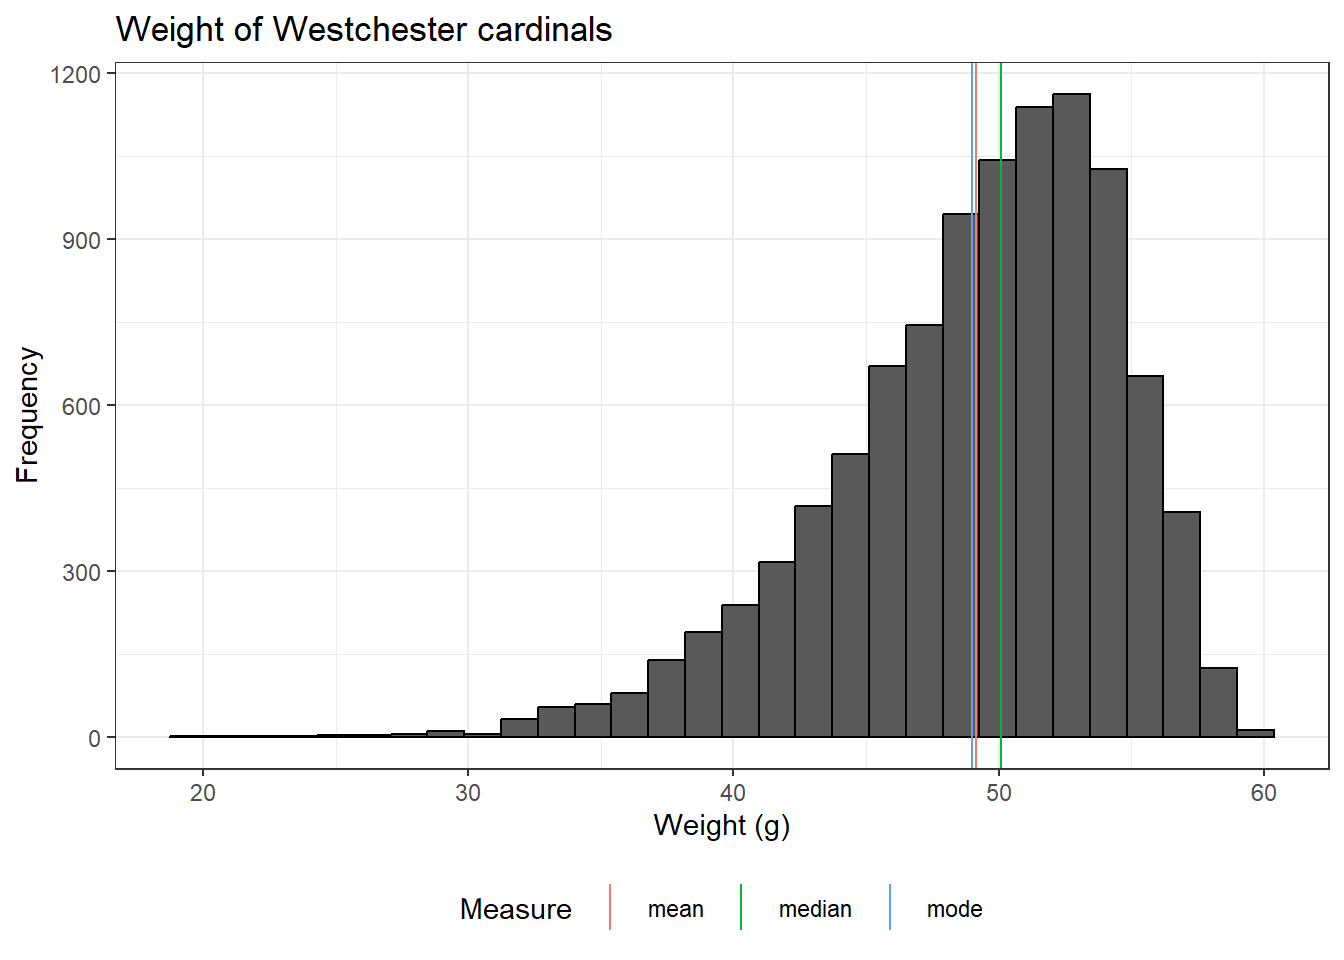
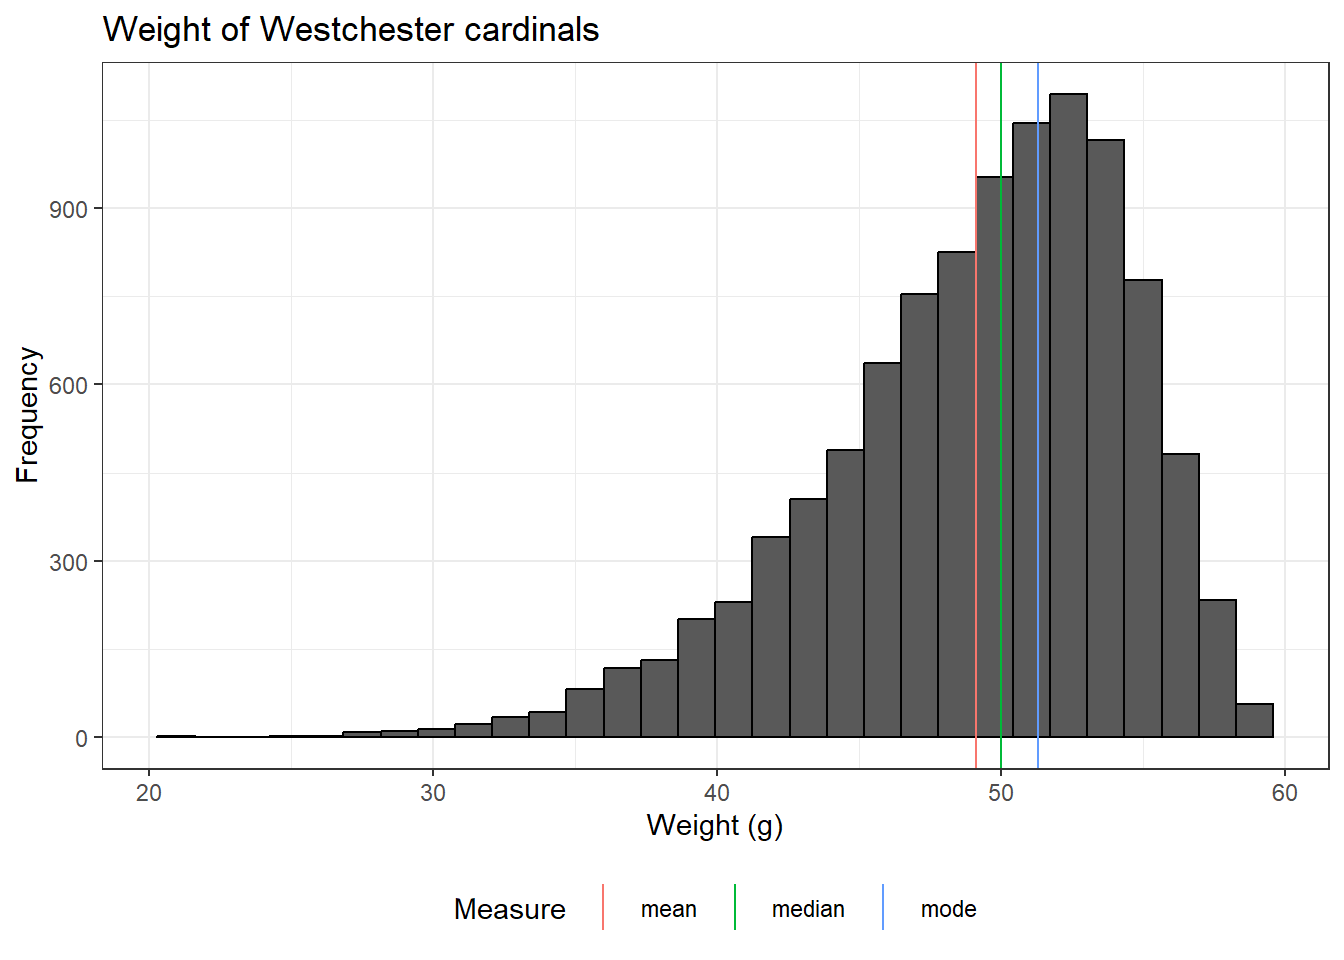
Built site for gh-pages

diff --git a/content/chapters/summarizing_data.html b/content/chapters/summarizing_data.html
@@ -1604,7 +1604,7 @@ Attaching package: 'ggpubr'</code></pre>
 <summary>
 Why is the mode not always on the highest bar?
 </summary>
-<p>Note the mode is heavily/totally impacted by data precision and thus can lead to unusual matches with histograms. In our above example, cardinals were measured to 10<sup>-3</sup> grams. However, the data was binned to levels of 10<sup>-2</sup> grams. Due to this mismatch, the most common measurement of the <em>raw</em> data was 49.012, which occurred 6 times. However, more data points still fell in another bin!</p>
+<p>Note the mode is heavily/totally impacted by data precision and thus can lead to unusual matches with histograms. In our above example, cardinals were measured to 10<sup>-3</sup> grams. However, the data was binned to levels of 10<sup>-2</sup> grams. Due to this mismatch, the most common measurement of the <em>raw</em> data was 51.322, which occurred 5 times. However, more data points still fell in another bin!</p>
 </details>
 <p>A special case where central tendency may not be the best way to describe a distribution is known as <em>bimodal</em> data. In this case, the distribution shows two, not one, clear peak. Remember the woodpecker <a href="#fig-woodpeckers">Figure&nbsp;12</a> data?</p>
 <div class="cell">
@@ -1770,7 +1770,7 @@ CV = \frac{s}{Y} * 100\%
 <div class="sourceCode cell-code" id="cb92"><pre class="sourceCode r code-with-copy"><code class="sourceCode r"><span id="cb92-1"><a href="#cb92-1" aria-hidden="true" tabindex="-1"></a><span class="fu">summary</span>(cardinals)</span></code><button title="Copy to Clipboard" class="code-copy-button"><i class="bi"></i></button></pre></div>
 <div class="cell-output cell-output-stdout">
 <pre><code>   Min. 1st Qu.  Median    Mean 3rd Qu.    Max. 
-  19.28   46.00   50.09   49.14   53.12   59.53 </code></pre>
+  21.56   46.01   50.03   49.13   53.12   59.54 </code></pre>
 </div>
 </div>
 <p>Note that if we shifted the bottom 10% of the values even <em>further</em> left (increasing the skew), the median stays the same, as does the IQR.</p>
@@ -1790,7 +1790,7 @@ CV = \frac{s}{Y} * 100\%
 <div class="sourceCode cell-code" id="cb96"><pre class="sourceCode r code-with-copy"><code class="sourceCode r"><span id="cb96-1"><a href="#cb96-1" aria-hidden="true" tabindex="-1"></a><span class="fu">summary</span>(cardinals_new)</span></code><button title="Copy to Clipboard" class="code-copy-button"><i class="bi"></i></button></pre></div>
 <div class="cell-output cell-output-stdout">
 <pre><code>   Min. 1st Qu.  Median    Mean 3rd Qu.    Max. 
-  18.88   46.00   50.09   49.10   53.12   59.53 </code></pre>
+  21.16   46.01   50.03   49.09   53.12   59.54 </code></pre>
 </div>
 <div class="cell-output-display">
 <div id="fig-cardinals_ggplot2_shifted" class="quarto-figure quarto-figure-center anchored">

diff --git a/content/chapters/Acquiring_data.html b/content/chapters/Acquiring_data.html
@@ -420,12 +420,12 @@ div.csl-indent {
 <div class="cell">
 <div class="sourceCode cell-code" id="cb1"><pre class="sourceCode r code-with-copy"><code class="sourceCode r"><span id="cb1-1"><a href="#cb1-1" aria-hidden="true" tabindex="-1"></a>lengths <span class="ot">&lt;-</span> <span class="fu">rnorm</span>(<span class="at">n=</span><span class="dv">1000</span>, <span class="at">mean =</span> <span class="dv">10</span>, <span class="at">sd=</span><span class="dv">1</span>)</span></code><button title="Copy to Clipboard" class="code-copy-button"><i class="bi"></i></button></pre></div>
 </div>
-<p>The average length of fish in this population is 9.98 cm. We can then simulate a sample from this population. In fact, let’s simulate 2 and compare the means of each.</p>
+<p>The average length of fish in this population is 10.01 cm. We can then simulate a sample from this population. In fact, let’s simulate 2 and compare the means of each.</p>
 <div class="cell">
 <div class="sourceCode cell-code" id="cb2"><pre class="sourceCode r code-with-copy"><code class="sourceCode r"><span id="cb2-1"><a href="#cb2-1" aria-hidden="true" tabindex="-1"></a>sample_1 <span class="ot">&lt;-</span> <span class="fu">sample</span>(lengths,<span class="dv">50</span>)</span>
 <span id="cb2-2"><a href="#cb2-2" aria-hidden="true" tabindex="-1"></a>sample_2 <span class="ot">&lt;-</span><span class="fu">sample</span>(lengths, <span class="dv">50</span>)</span></code><button title="Copy to Clipboard" class="code-copy-button"><i class="bi"></i></button></pre></div>
 </div>
-<p>The mean length for fish in sample 1 is 9.92 cm, while that in sample 2 is 10 cm (Note: if you view this on the webpage you will see a number, but in the actual qmd file you see R code here - this is an example of merging code and text!). These are both close to the true value, but they are also both slightly different - this is sampling error!</p>
+<p>The mean length for fish in sample 1 is 9.98 cm, while that in sample 2 is 10 cm (Note: if you view this on the webpage you will see a number, but in the actual qmd file you see R code here - this is an example of merging code and text!). These are both close to the true value, but they are also both slightly different - this is sampling error!</p>
 <p>Sampling error always exists, and a major part of statistics is to quantify it. One thing that reduces sampling error is to have large samples! Remember, if we measure every member of the population we don’t even need statistics, so the closer we get to that (implying larger samples) the better!</p>
 </section>
 <section id="next-steps" class="level2">

diff --git a/content/chapters/Relationships_among_numerical_variables.html b/content/chapters/Relationships_among_numerical_variables.html
@@ -639,17 +639,17 @@ alternative hypothesis: two.sided</code></pre>
 <div class="cell-output cell-output-stdout">
 <pre><code>
 Number of bootstrap replications R = 999 
-             original   bootBias   bootSE bootMed
-(Intercept)   -7.1014 -0.0196971 0.419240 -7.1352
-Sepal.Length   1.8584  0.0037078 0.068155  1.8627</code></pre>
+             original    bootBias   bootSE bootMed
+(Intercept)   -7.1014  0.00219414 0.441014 -7.0946
+Sepal.Length   1.8584 -0.00025953 0.071296  1.8610</code></pre>
 </div>
 <div class="sourceCode cell-code" id="cb41"><pre class="sourceCode r code-with-copy"><code class="sourceCode r"><span id="cb41-1"><a href="#cb41-1" aria-hidden="true" tabindex="-1"></a><span class="fu">Confint</span>(bootstrap_iris)</span></code><button title="Copy to Clipboard" class="code-copy-button"><i class="bi"></i></button></pre></div>
 <div class="cell-output cell-output-stdout">
 <pre><code>Bootstrap bca confidence intervals
 
               Estimate     2.5 %    97.5 %
-(Intercept)  -7.101443 -7.808106 -6.148043
-Sepal.Length  1.858433  1.715334  1.976782</code></pre>
+(Intercept)  -7.101443 -7.930790 -6.222583
+Sepal.Length  1.858433  1.715907  1.986343</code></pre>
 </div>
 </div>
 </section>

diff --git a/content/chapters/Probability.html b/content/chapters/Probability.html
@@ -614,7 +614,7 @@ P[roll=blue] + P[roll=6] - P[roll=6 \ and \ blue]= \frac{1}{2} + \frac{1}{6} -\f
 <p><img src="Probability_files/figure-html/unnamed-chunk-5-1.png" class="img-fluid" width="672"></p>
 </div>
 </div>
-<p>Notice here we find the probability of rolling a sum of 5 is 0.11105 which is very close to <span class="math inline">\(\frac{4}{36}\)</span>.</p>
+<p>Notice here we find the probability of rolling a sum of 5 is 0.11152 which is very close to <span class="math inline">\(\frac{4}{36}\)</span>.</p>
 <p>To find the probability using math, we have to note that the dice rolls are independent. For example, even though we only want a <strong>4</strong> on the second dice if we roll a <strong>1</strong> on the first dice, the roll of the first die does not influence the roll of the second. We should also note the desired outcomes are mutually exclusive. So we can find the probability of each happening and then add them. It’s easy to see how probability can get complicated!</p>
 </section>
 </section>
